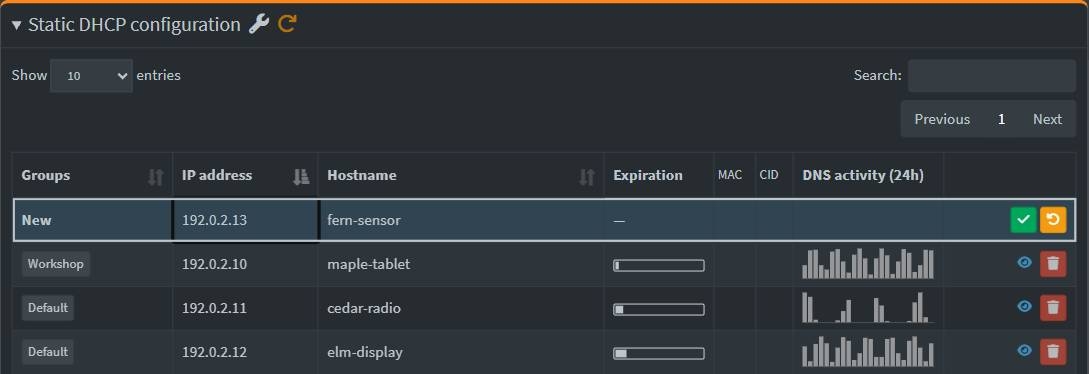
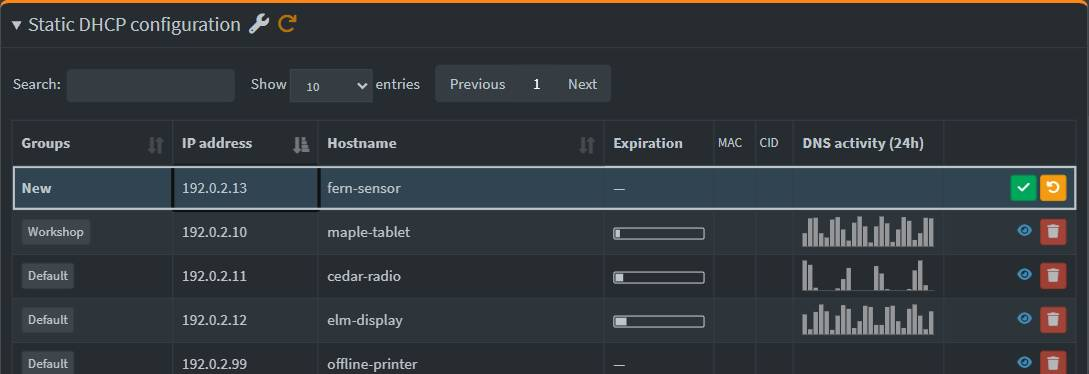
Put DHCP search, page size, and pagination on one row

diff --git a/docs/check.html b/docs/check.html
@@ -13,7 +13,7 @@ h1 { font-size: 1.5rem; } li { margin-block: .6rem; }
 <p id="status"></p>
 <a href="https://github.com/micassa-pics/pihole-awesome-a-fyer/blob/main/prompts/manage.md">Open the update prompt</a>
 <script>
-const latest = "1.1.4";
+const latest = "1.1.5";
 const installed = new URLSearchParams(location.hash.slice(1));
 const pages = [["dhcp", "DHCP"], ["queries", "Query Log"]].filter(([key]) => installed.has(key));
 const older = pages.filter(([key]) => {

diff --git a/dhcp.md b/dhcp.md
@@ -32,7 +32,7 @@ The upper table shows active leases without a reserved IP address. The static ta
 
 ![Dynamic DHCP leases with the option to add a reservation.](assets/active-dhcp-leases.jpg)
 
-Search static reservations by IP address, hostname, or MAC address. Select the IP address or hostname heading to sort. To edit the entries as text, open **Manual Edit Static DHCP Entries**. Confirm a deletion to queue it. Review the list under **Save & Apply**, then select the button to delete the listed entries. Other DHCP edits apply when you finish the field or confirm the row.
+Both tables have one row of controls. Search on the left, choose the number of entries, or change pages on the right. Search static reservations by IP address, hostname, or MAC address. Select the IP address or hostname heading to sort. To edit the entries as text, open **Manual Edit Static DHCP Entries**. Confirm a deletion to queue it. Review the list under **Save & Apply**, then select the button to delete the listed entries. Other DHCP edits apply when you finish the field or confirm the row.
 
 [Compare stock and patched DHCP with the before-and-after slider](https://micassa-pics.github.io/pihole-awesome-a-fyer/comparison/#dhcp)
 
